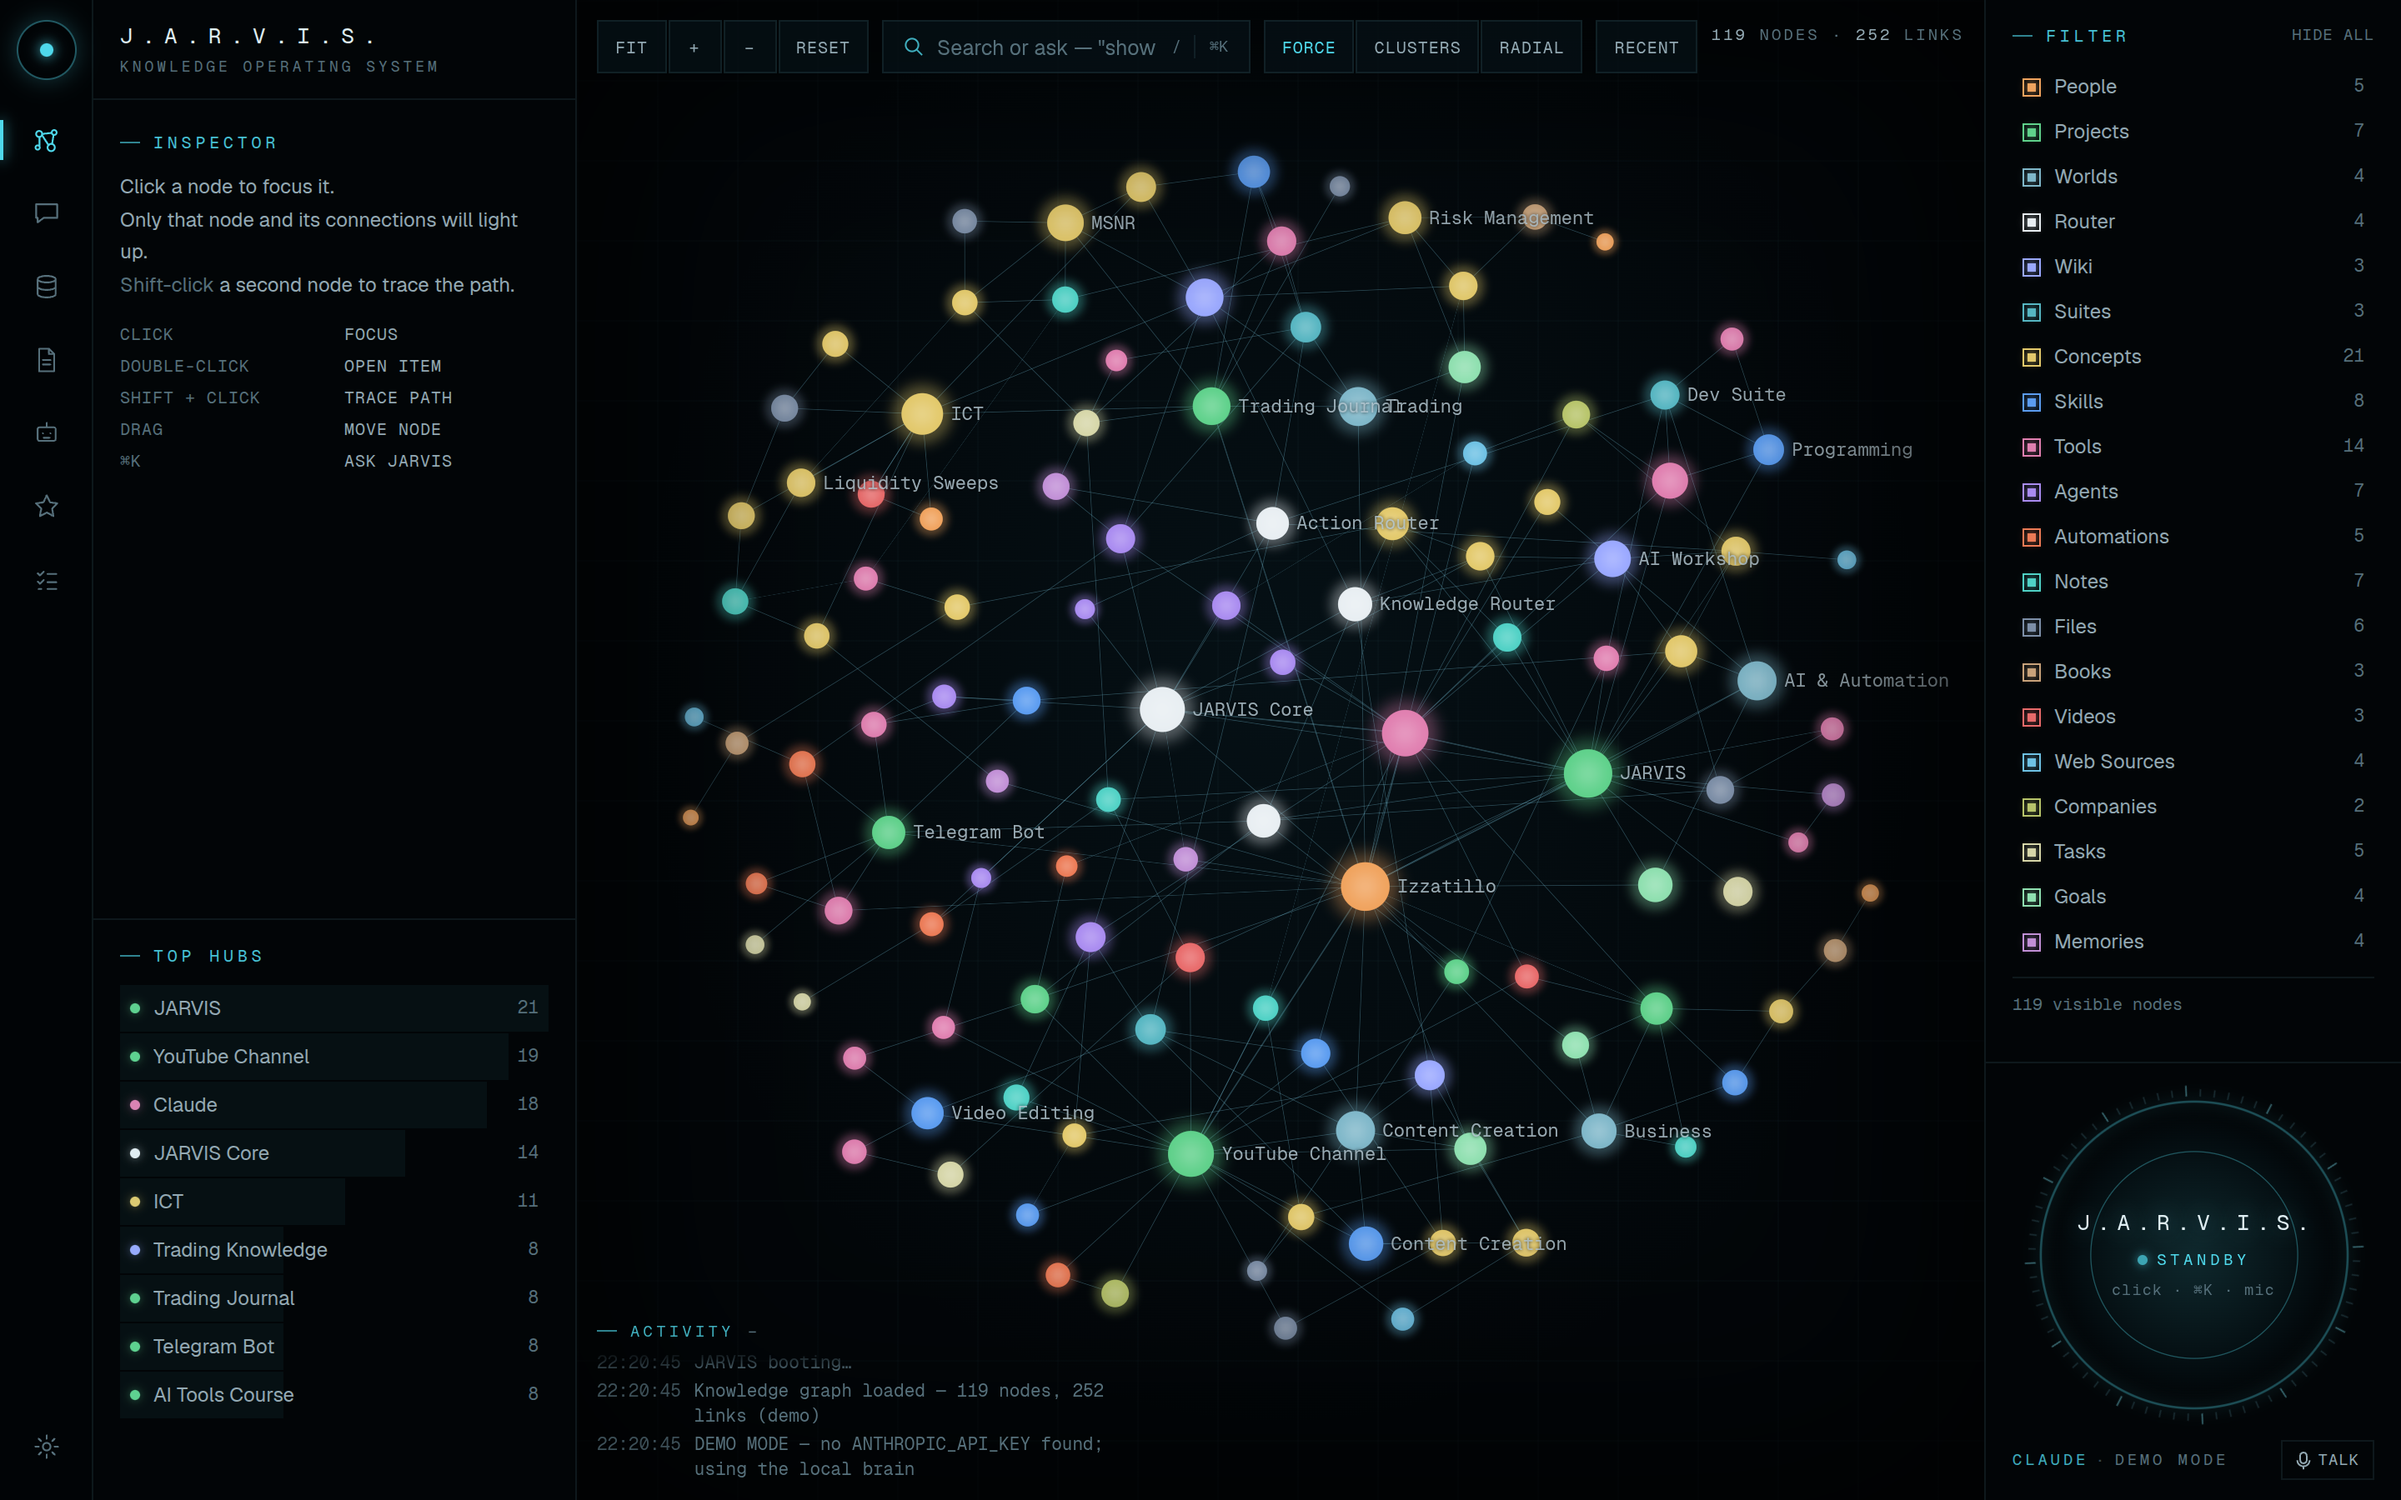
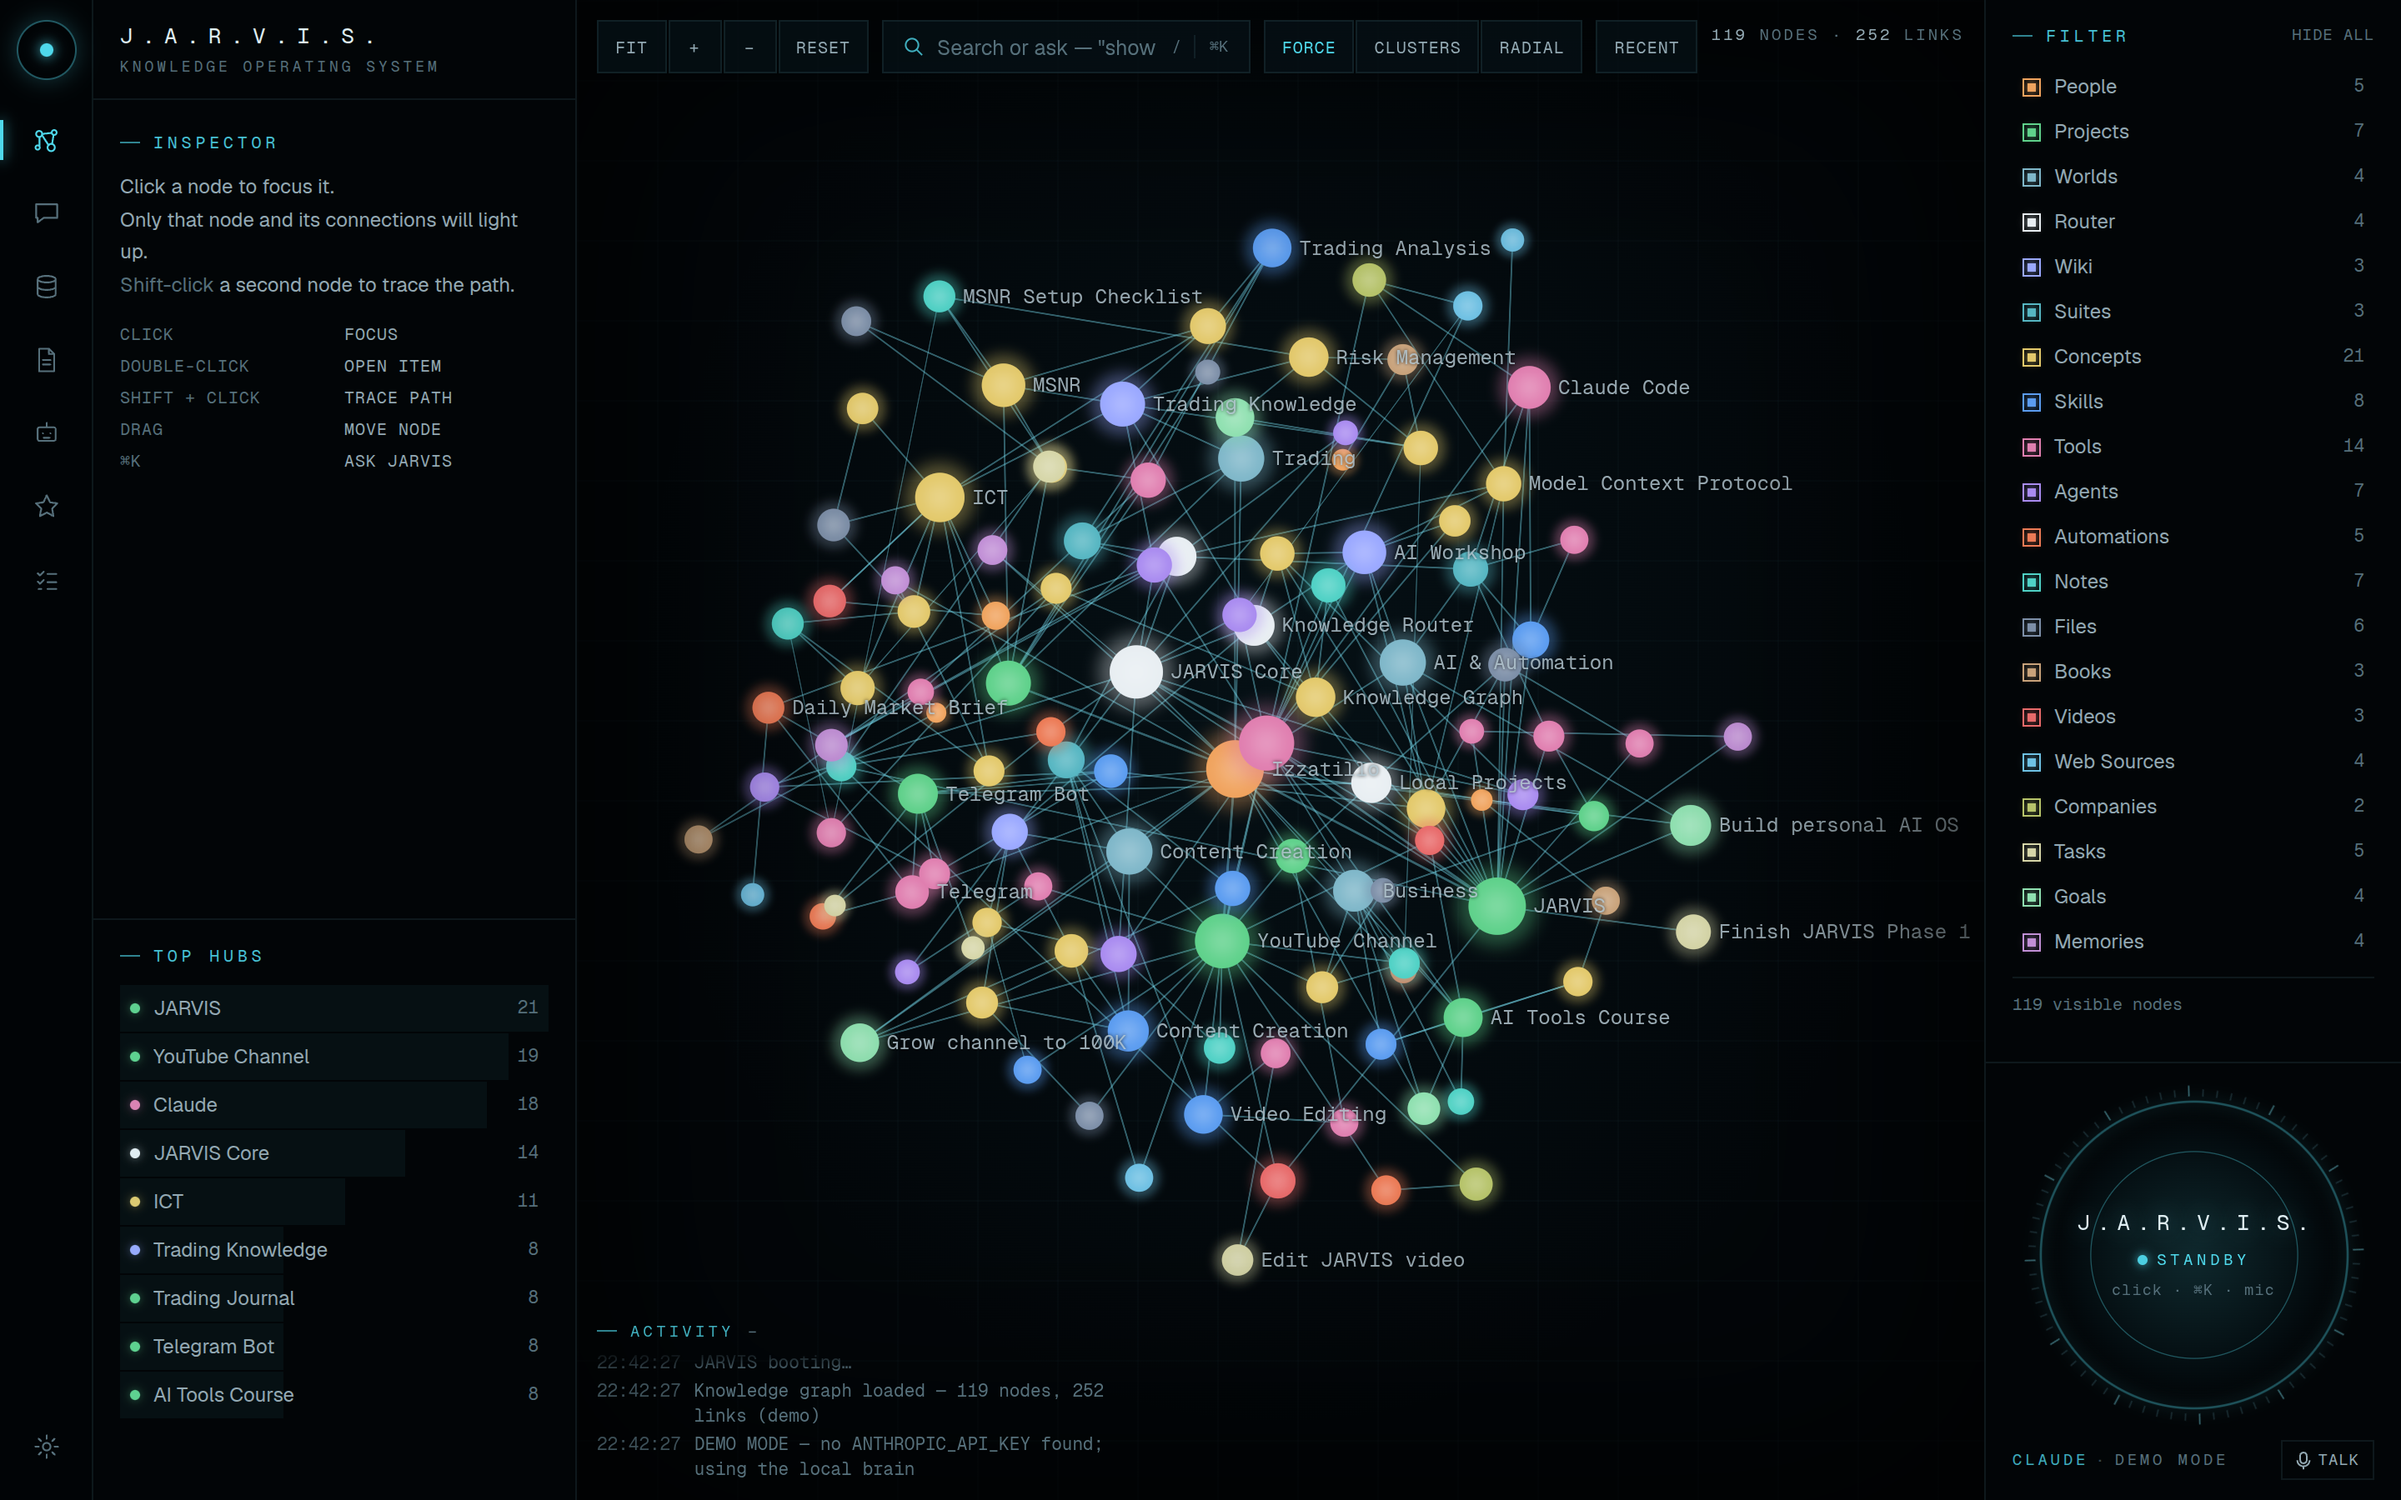
Make the full graph as clear as the focused view
Claude-Session: https://claude.ai/code/session_011W6Pchj5PbJTRsVt21wDkZ

diff --git a/src/components/graph/KnowledgeGraph.tsx b/src/components/graph/KnowledgeGraph.tsx
@@ -30,7 +30,8 @@ function bboxOf(pos: Record<string, { x: number; y: number }>): BBox {
   }
   const px = (x1 - x0) * 0.04 || 1;
   const py = (y1 - y0) * 0.04 || 1;
-  return { x: [x0 - px, x1 + px], y: [y0 - py, y1 + py] };
+  // Extra room on the right so labels of the right-most nodes are not clipped.
+  return { x: [x0 - px, x1 + px + (x1 - x0) * 0.12], y: [y0 - py, y1 + py] };
 }
 
 function hashPhase(id: string) {
@@ -86,6 +87,9 @@ function drawHover(
   ctx.textBaseline = "alphabetic";
 }
 
+/** Label boxes drawn in the current frame — used to skip overlapping labels. */
+let drawnLabels: [number, number, number, number][] = [];
+
 function drawLabel(
   ctx: CanvasRenderingContext2D,
   data: PartialButFor<NodeDisplayData, "x" | "y" | "size" | "label" | "color">,
@@ -96,10 +100,15 @@ function drawLabel(
   if (!data.label || highlighted) return;
   const size = settings.labelSize;
   ctx.font = `400 ${size}px ${settings.labelFont}`;
+  const x = data.x + data.size + 4;
+  const w = ctx.measureText(data.label).width;
+  const box: [number, number, number, number] = [x - 2, data.y - size / 2 - 2, x + w + 2, data.y + size / 2 + 2];
+  if (drawnLabels.some((b) => box[0] < b[2] && b[0] < box[2] && box[1] < b[3] && b[1] < box[3])) return;
+  drawnLabels.push(box);
   ctx.fillStyle = "rgba(184, 204, 214, 0.82)";
   ctx.shadowColor = "rgba(0,0,0,0.9)";
   ctx.shadowBlur = 4;
-  ctx.fillText(data.label, data.x + data.size + 4, data.y + size / 3);
+  ctx.fillText(data.label, x, data.y + size / 3);
   ctx.shadowBlur = 0;
 }
 
@@ -126,6 +135,14 @@ export default function KnowledgeGraph() {
     let dragged: string | null = null;
     let dragMoved = false;
     let floatAmp = 0;
+    // Always label the most important nodes (like a focused view); the rest
+    // get labels as you zoom in.
+    const labelCut = (() => {
+      const imps: number[] = [];
+      graph.forEachNode((_, a) => imps.push(a.importance));
+      imps.sort((a, b) => b - a);
+      return imps[Math.min(imps.length - 1, 22)] ?? 1;
+    })();
     let t = 0;
 
     const computeFocus = (f: Focus) => {
@@ -158,18 +175,18 @@ export default function KnowledgeGraph() {
         nodeProgramClasses: { glow: GlowNodeProgram },
         defaultEdgeType: "line",
         labelFont,
-        labelSize: 11,
+        labelSize: 12,
         labelWeight: "400",
         labelColor: { color: "#b8ccd6" },
-        labelDensity: 0.45,
-        labelGridCellSize: 140,
-        labelRenderedSizeThreshold: 9,
+        labelDensity: large ? 0.4 : 0.8,
+        labelGridCellSize: large ? 140 : 120,
+        labelRenderedSizeThreshold: large ? 9 : 10,
         defaultDrawNodeHover: drawHover,
         defaultDrawNodeLabel: drawLabel,
         minCameraRatio: 0.04,
         maxCameraRatio: 5,
         zIndex: true,
-        stagePadding: 40,
+        stagePadding: 48,
         hideEdgesOnMove: large,
         hideLabelsOnMove: large,
         minEdgeThickness: 0.6,
@@ -187,6 +204,7 @@ export default function KnowledgeGraph() {
             res.y = data.y + Math.cos(t * 0.00035 + ph * 1.7) * floatAmp;
           }
           const active = hoverSet ?? focusSet;
+          if (!active && !large && data.importance >= labelCut) res.forceLabel = true;
           if (active) {
             if (active.has(node)) {
               res.zIndex = 2;
@@ -241,6 +259,9 @@ export default function KnowledgeGraph() {
     }
 
     const camera = sigma.getCamera();
+    sigma.on("beforeRender", () => {
+      drawnLabels = [];
+    });
     // Debug handle for automated UI checks: `/graph?debug`
     if (process.env.NODE_ENV !== "production" || window.location.search.includes("debug")) {
       (window as unknown as Record<string, unknown>).__jarvis = { sigma, graph };

diff --git a/src/knowledge/graph.ts b/src/knowledge/graph.ts
@@ -1,5 +1,6 @@
 import Graph from "graphology";
 import forceAtlas2 from "graphology-layout-forceatlas2";
+import noverlap from "graphology-layout-noverlap";
 import circlepack from "graphology-layout/circlepack";
 import { CATEGORIES } from "@/knowledge/categories";
 import type { KGData, KGEdge, KGNode, NodeCategory } from "@/types/graph";
@@ -27,12 +28,12 @@ export interface GraphEdgeAttrs {
 export type KnowledgeGraph = Graph<GraphNodeAttrs, GraphEdgeAttrs>;
 
 // Premultiplied (sigma blends edges with premultiplied alpha).
-export const EDGE_COLOR = "rgba(34, 56, 63, 0.28)";
+export const EDGE_COLOR = "rgba(48, 90, 98, 0.42)";
 
 export function nodeSize(importance: number, degree: number, order = 0): number {
   // Shrink nodes as the graph grows so large graphs stay readable.
   const scale = order > 2000 ? 0.4 : order > 600 ? 0.6 : 1;
-  return (2.2 + importance * 9 + Math.min(Math.sqrt(degree) * 0.9, 6)) * scale;
+  return (3 + importance * 10 + Math.min(Math.sqrt(degree) * 1.1, 7)) * scale;
 }
 
 export function createGraph(data: KGData): KnowledgeGraph {
@@ -69,7 +70,7 @@ export function addEdgeToGraph(graph: KnowledgeGraph, e: KGEdge) {
   graph.addDirectedEdgeWithKey(e.id, e.source, e.target, {
     relation: e.relation,
     weight: e.weight,
-    size: 0.4 + e.weight * 0.9,
+    size: 0.8 + e.weight * 1.1,
     color: EDGE_COLOR,
     edge: e,
   });
@@ -277,17 +278,30 @@ export function computeLayout(graph: KnowledgeGraph, name: LayoutName, center?: 
   const copy = graph.copy();
   seedByCategory(copy as KnowledgeGraph);
   const settings = forceAtlas2.inferSettings(copy);
-  return forceAtlas2(copy, {
+  const forced = forceAtlas2(copy, {
     iterations: order > 2000 ? 80 : order > 500 ? 200 : 400,
     getEdgeWeight: "weight",
     settings: {
       ...settings,
-      gravity: 1.2,
+      gravity: 0.8,
       scalingRatio: 12,
       slowDown: 2,
       linLogMode: false,
       adjustSizes: false,
       barnesHutOptimize: order > 300,
     },
+  });
+  if (order > 1500) return forced;
+  // Spread nodes so each has room for its circle and label, like a focused view.
+  for (const [id, p] of Object.entries(forced)) copy.mergeNodeAttributes(id, p);
+  const box = Object.values(forced);
+  const extent = Math.max(
+    Math.max(...box.map((p) => p.x)) - Math.min(...box.map((p) => p.x)),
+    Math.max(...box.map((p) => p.y)) - Math.min(...box.map((p) => p.y)),
+  );
+  return noverlap(copy, {
+    maxIterations: 300,
+    inputReducer: (id, a) => ({ x: a.x, y: a.y, size: extent * (0.035 + 0.075 * graph.getNodeAttribute(id, "importance") ** 2) }),
+    settings: { margin: extent * 0.02, ratio: 1, speed: 3 },
   });
 }
